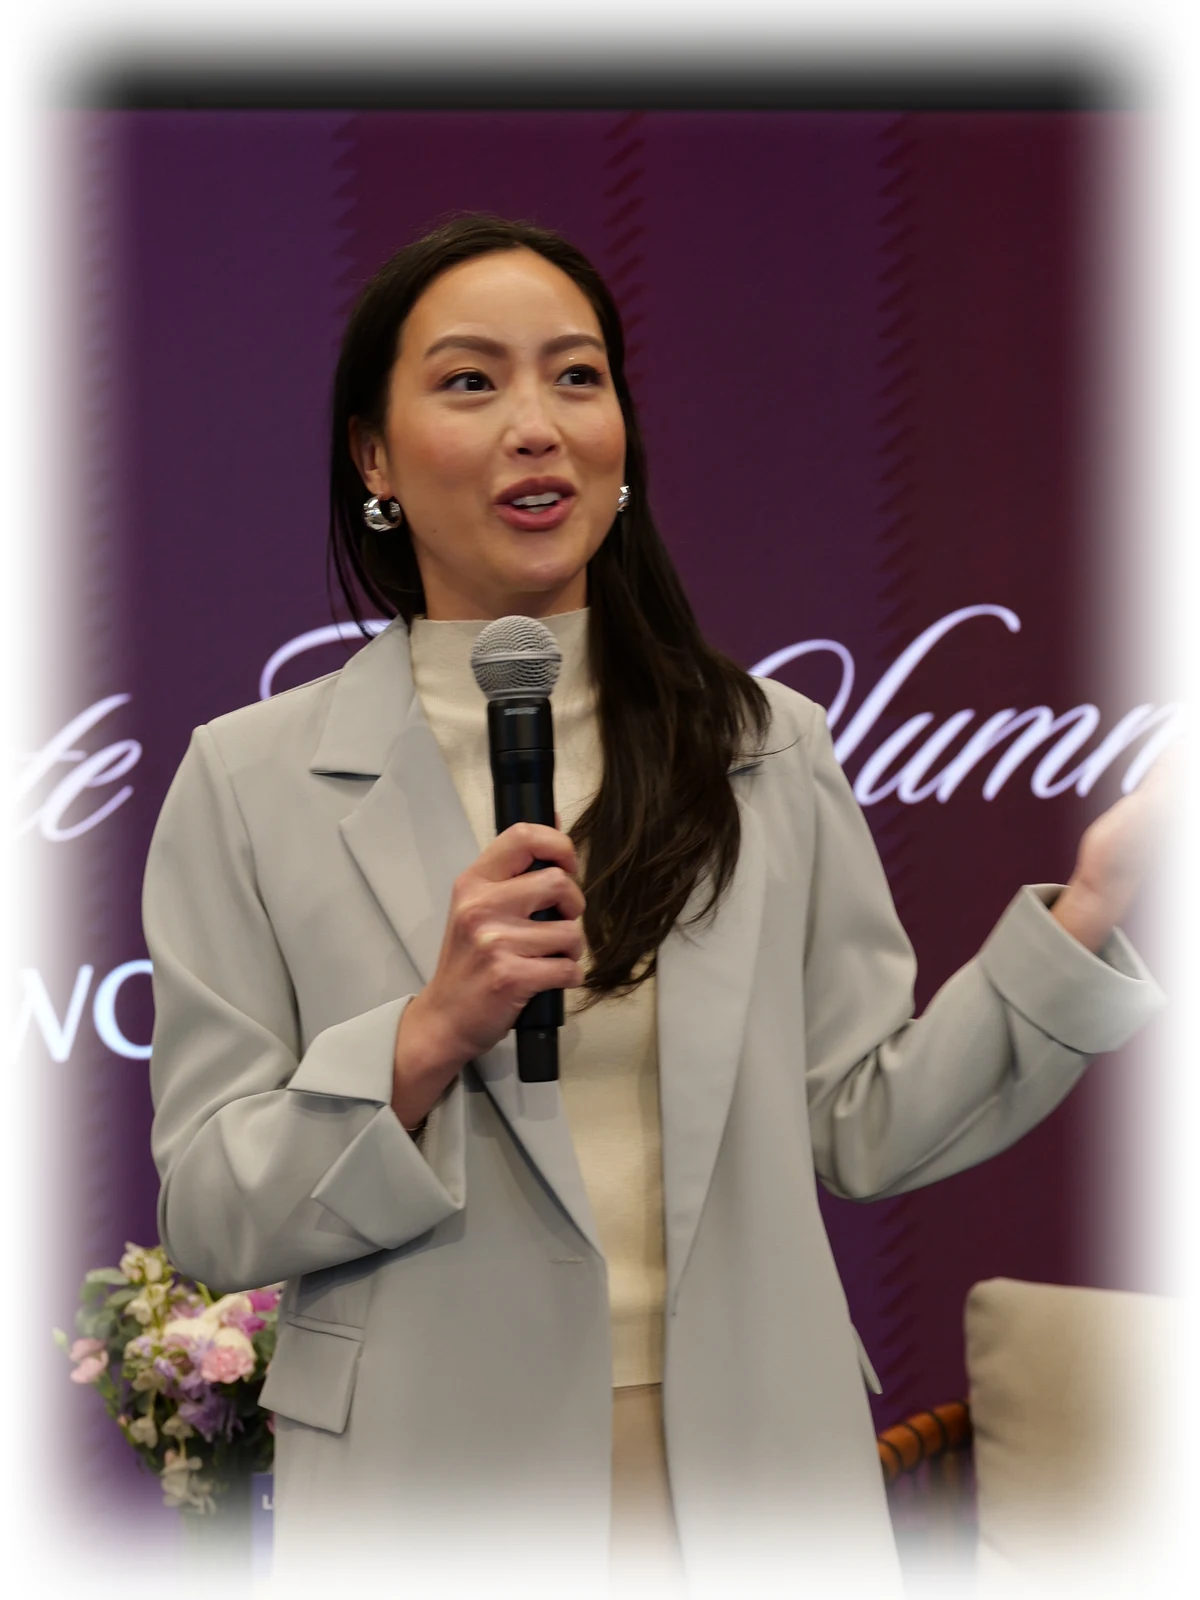
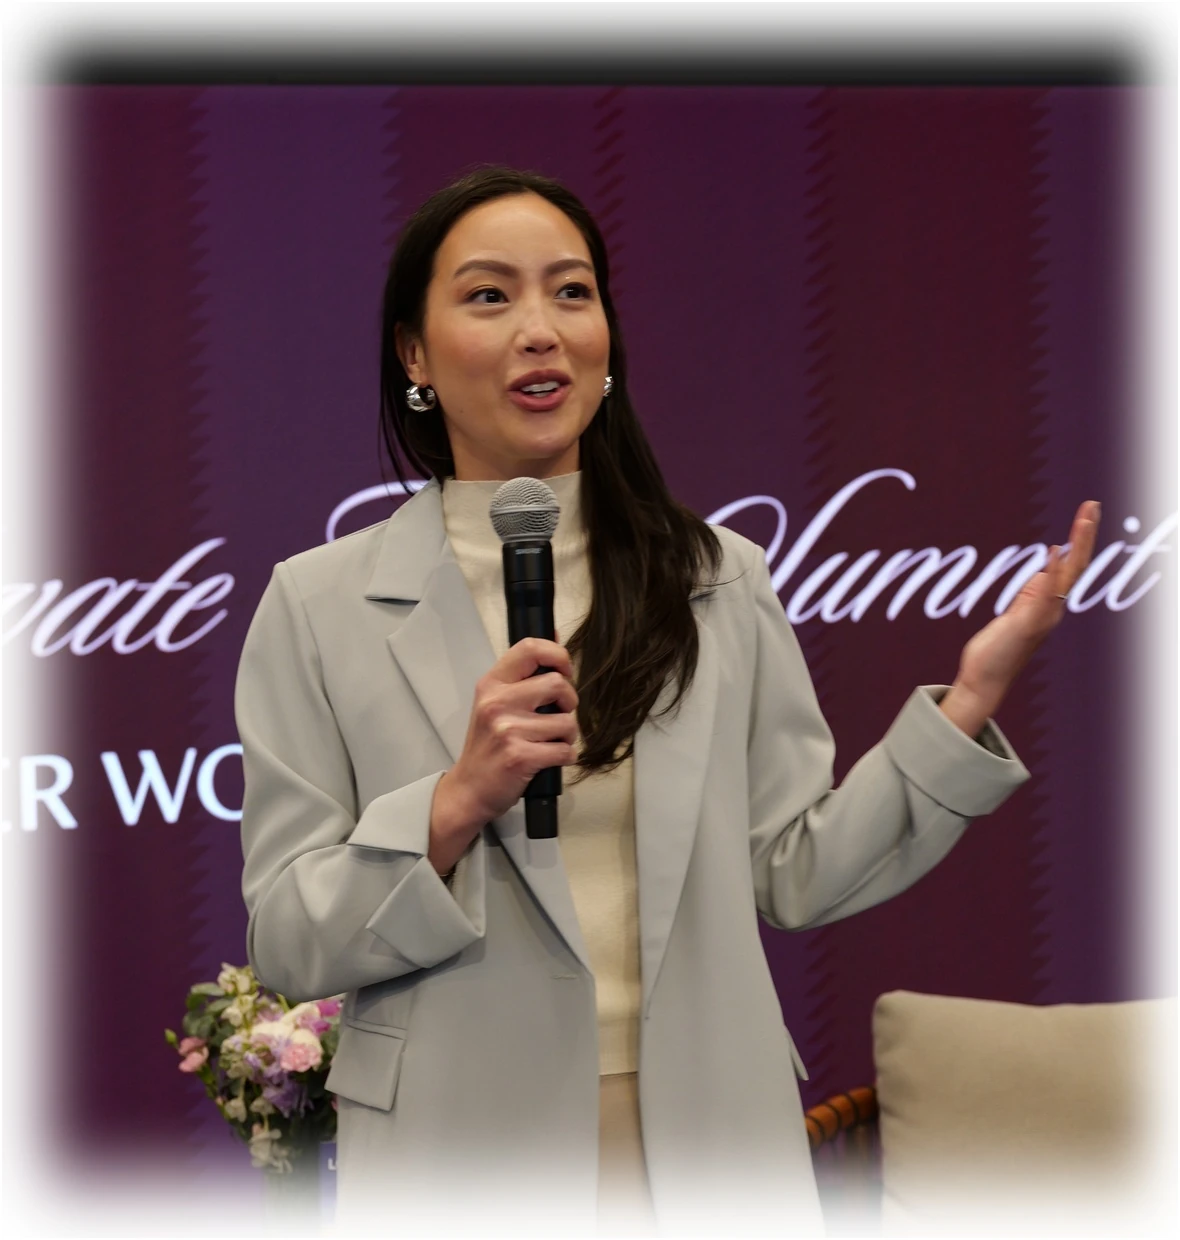
Blend pre-faded hero photos into the page background
The new home and speaking photos fade to pure white at the rim, but the site
body is #f9f9f9, so the faded area showed as a brighter rectangle with hard
straight edges. Multiply blends white into whatever sits behind it exactly,
so the rim disappears at any background colour without re-exporting the photo
or changing the site's background.

The speaking photo is also re-exported at the hero card's own ratio
(1180x1240 against a 589x620 box), so it fills the card edge to edge again
rather than being letterboxed.

diff --git a/src/styles/editorial/base.css b/src/styles/editorial/base.css
@@ -459,12 +459,17 @@ body {
 .photo-card--prefaded img {
   -webkit-mask-image: none;
   mask-image: none;
-  /* contain, not cover: max-height leaves the card at roughly 0.95 and the
-     photo at 3/4, so cover would crop the baked fade off whichever pair of
-     edges overflows, and which pair that is changes with the viewport. The
-     page behind is white, so the letterboxing contain leaves is invisible. */
-  object-fit: contain;
+  /* The photo is exported at the card's own ratio (1180x1240 against a
+     589x620 box), so cover fills it edge to edge without cropping the baked
+     fade away. Replacing it with a differently shaped photo would start
+     cropping that fade again. */
+  object-fit: cover;
   object-position: center top;
+  /* The photo's rim fades to pure white, but the page sits on #f9f9f9, so the
+     faded area read as a brighter rectangle with visible straight edges.
+     Multiply blends white into whatever is behind it exactly, so the rim
+     disappears into the page at any background colour. */
+  mix-blend-mode: multiply;
 }
 .photo-stat {
   position: absolute;

diff --git a/src/styles/v1/home.css b/src/styles/v1/home.css
@@ -482,6 +482,11 @@ body {
   object-fit: cover;
   object-position: center top;
   display: block;
+  /* The photo's rim fades to pure white, but the page sits on #f9f9f9, so the
+     faded area read as a brighter rectangle with visible straight edges.
+     Multiply blends white into whatever is behind it exactly, so the rim
+     disappears into the page at any background colour. */
+  mix-blend-mode: multiply;
   /* No CSS mask here. The soft white rim is baked into the source image, so
      a mask on top of it would fade the edges twice and creep back onto her
      face. If the photo is ever swapped for one with hard edges, the fade has
